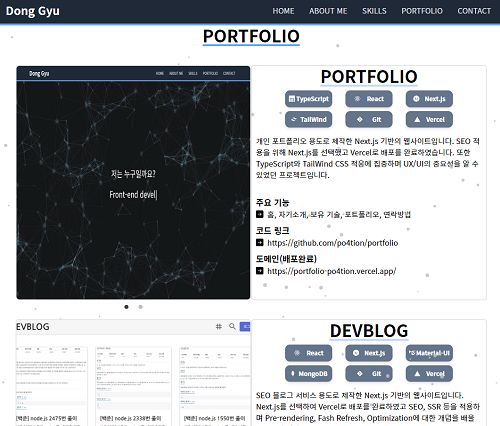
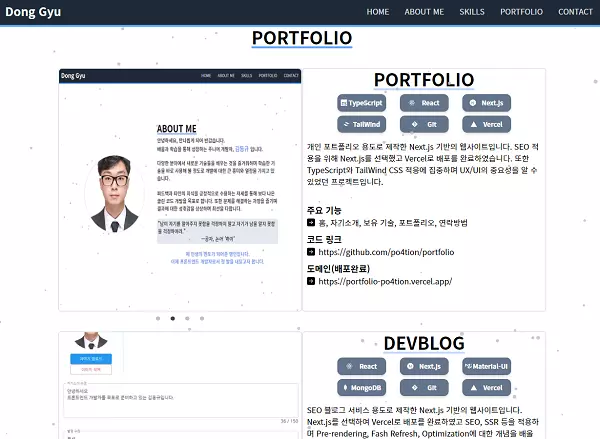
Style: 이미지 파일 변경

diff --git a/pages/index.tsx b/pages/index.tsx
@@ -21,7 +21,7 @@ const Home: NextPage = () => {
 					description: '김동규의 포트폴리오',
 					images: [
 						{
-							url: `${process.env.NEXT_PUBLIC_DOMAIN}/images/portfolioImg/portfolio.webp`,
+							url: `${process.env.NEXT_PUBLIC_DOMAIN}/images/portfolioImg/portfolio/home.webp`,
 							width: 500,
 							height: 500,
 							alt: '포트폴리오',
